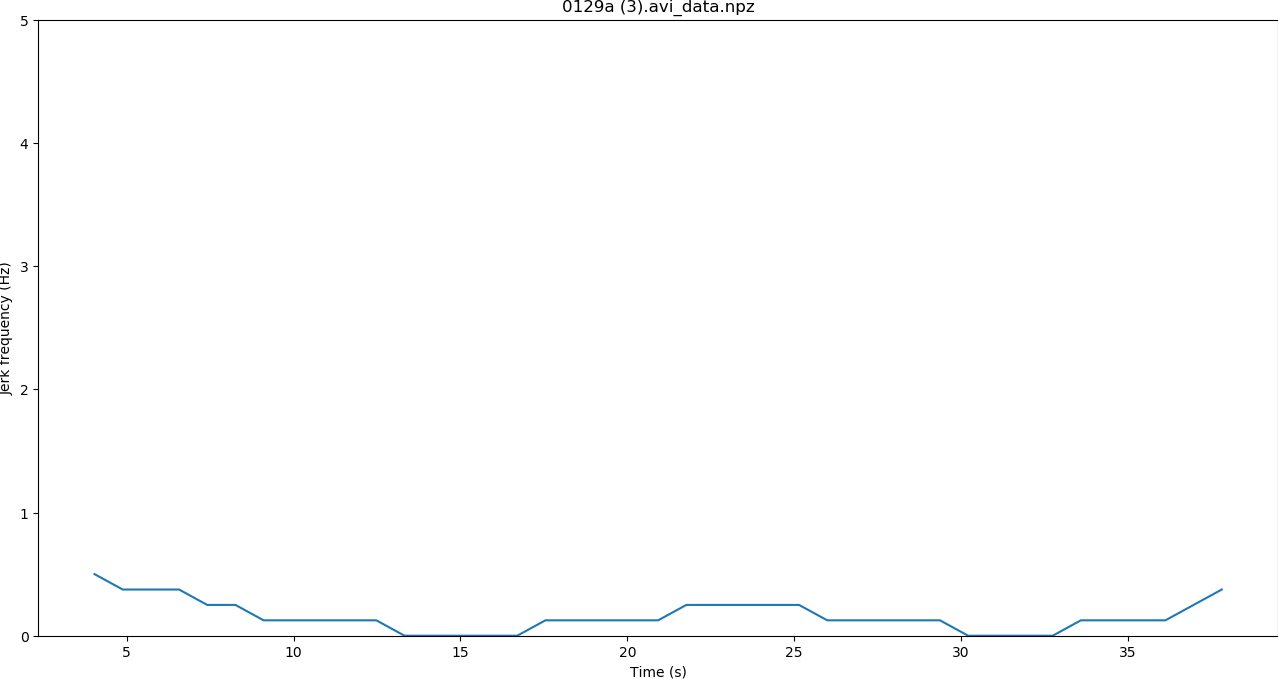
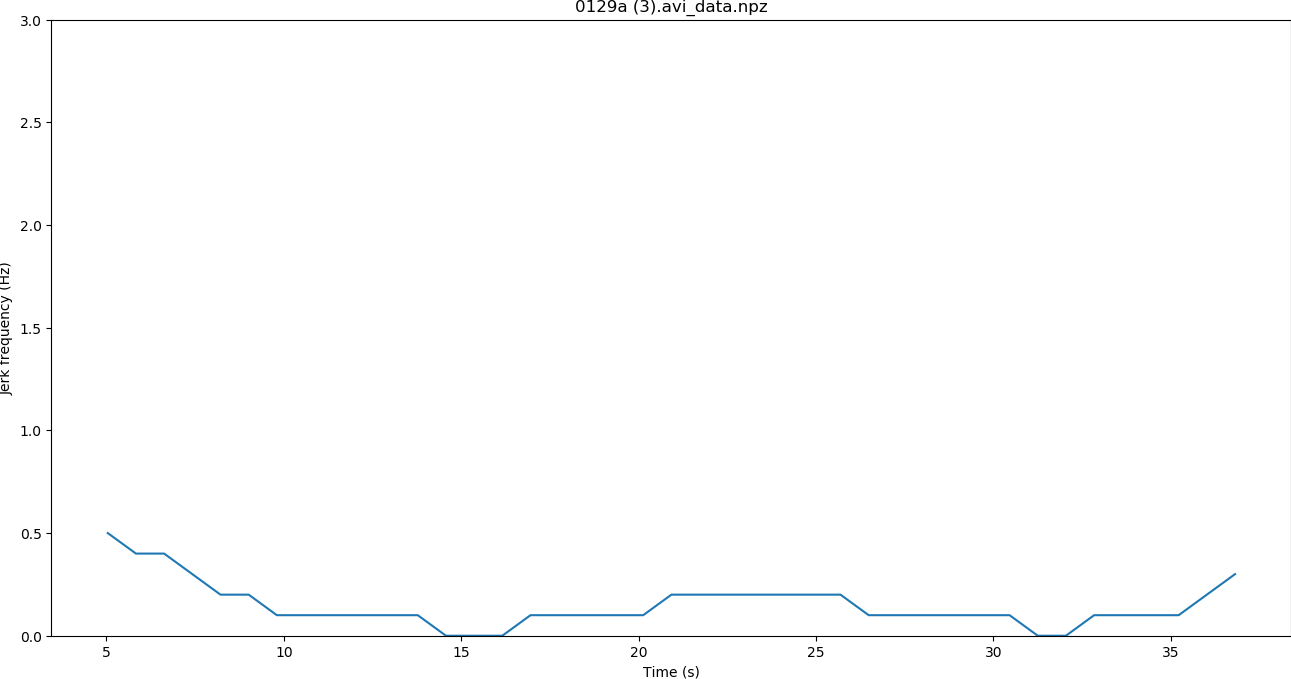
issépassépleindetrucs

diff --git a/py/main/processCourbes.py b/py/main/processCourbes.py
@@ -80,11 +80,10 @@ def processDataDir_old(directory):
 #plt.show()
 
 def processDataDir(directory,freqdir="res/freq/",fig_peaks_dir="fig_peaks_main/",fig_freq_dir="fig_freq_main/"):
-    directory = "../../"+directory
-    for dirName, subdirList, fileList in os.walk(directory, topdown=False):
+    for dirName, subdirList, fileList in os.walk("../../"+directory, topdown=False):
             for fname in fileList:
                 if fname.endswith("_data.npz"):
-                    cur.execute("SELECT id FROM essai WHERE nomFichier=?",(fname.replace("_data.npz",""),))
+                    cur.execute("SELECT id FROM essai WHERE nomFichier=?",(directory+fname,))
                     l = list(cur)
                     if len(l)==0 :
                         print("Le fichier d'essai correspondant à",fname,"n'a pas préalablement été importé.")
@@ -109,11 +108,11 @@ def processDataDir(directory,freqdir="res/freq/",fig_peaks_dir="fig_peaks_main/"
                             plt.pause(1)
                         if fig_peaks_dir!=None : fig.savefig(fname="../../"+fig_peaks_dir+fname+"_peaks"+".png",bbox_inches='tight',pad_inches=0)
                         plt.close()
-                        freq_t,freq=running_freq(t,int(t[-1]-t[0]),peaks,8)
+                        freq_t,freq=running_freq(t,int(t[-1]-t[0]),peaks,10)
                         if fig_freq_dir!=None:
                             plt.figure(figsize=(16,8))
                             plt.plot(freq_t,freq)
-                            plt.ylim(0,5)
+                            plt.ylim(0,3)
                             plt.ylabel("Jerk frequency (Hz)")
                             plt.xlabel("Time (s)")
                             plt.title(fname)

diff --git a/py/main/intodb.py b/py/main/intodb.py
@@ -10,7 +10,6 @@ cur = conn.cursor()
 def intoDB(directory,copy=[]):
     '''exemple : copy=['nomFichier','nomPapier','nomSurface'] # nomFichier en premier !!
     '''
-    directory="../../"+directory
     if len(copy)>0:
         cur.execute("SELECT COUNT(*) FROM essai WHERE nomFichier=?",(copy[0],))
         if list(cur)[0][0] > 0 :
@@ -29,10 +28,10 @@ def intoDB(directory,copy=[]):
     for field in ["nomPapier","nomCondexp","nomSurface","diametre","longueur","largeur","dureeHold","commentaire"]:
         print(field,":")
         entree[field]=copy[field] if field in copy else input()
-    for dirName, subdirList, fileList in os.walk(directory, topdown=False):
+    for dirName, subdirList, fileList in os.walk("../../"+directory, topdown=False):
         for fname in fileList:
-            if fname.endswith((".mp4",".m4v",".avi",".mkv",".mov",".flv",".3gp")):
-                cur.execute("SELECT COUNT(*) FROM essai WHERE nomFichier=?", (fname,))
+            if fname.endswith(".npz"):
+                cur.execute("SELECT COUNT(*) FROM essai WHERE nomFichier=?", (directory+fname,))
                 if list(cur)[0][0] > 0 :
                     print(os.path.join(dirName, fname),"déjà dans la BD")
                     m+=1
